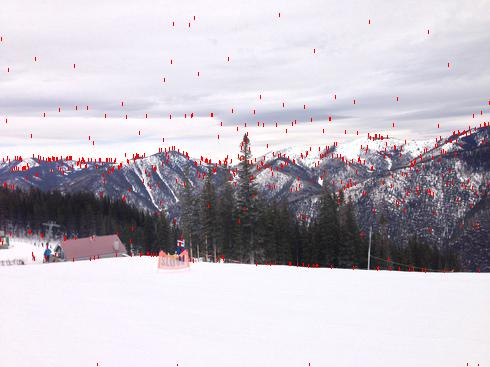
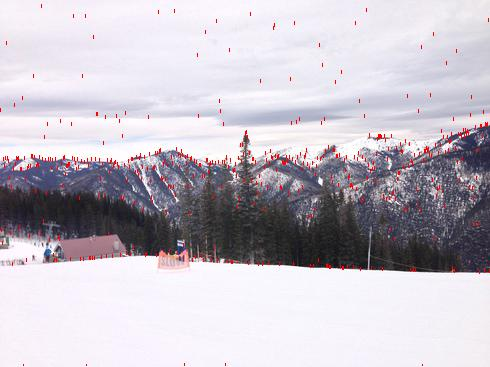
Gibb's sampling WIP

diff --git a/mountain.py b/mountain.py
@@ -193,10 +193,9 @@ for x in range(0, 500):
     final_ridge.append(ridge)
 
 for col in range(0, col_len):
-    col_list = [int(edge_strength[row][col]) for row in range(0, row_len)]
-
-
-    print Counter(x)
+    col_list = [int(final_ridge[row][col]) for row in range(0, row_len)]
+    # print Counter(col_list).items()
+    # print col_list
 
 imsave(output_filename, draw_edge(input_image, ridge, (i % 255, x % 255, (i + x) % 255), 5))
 
